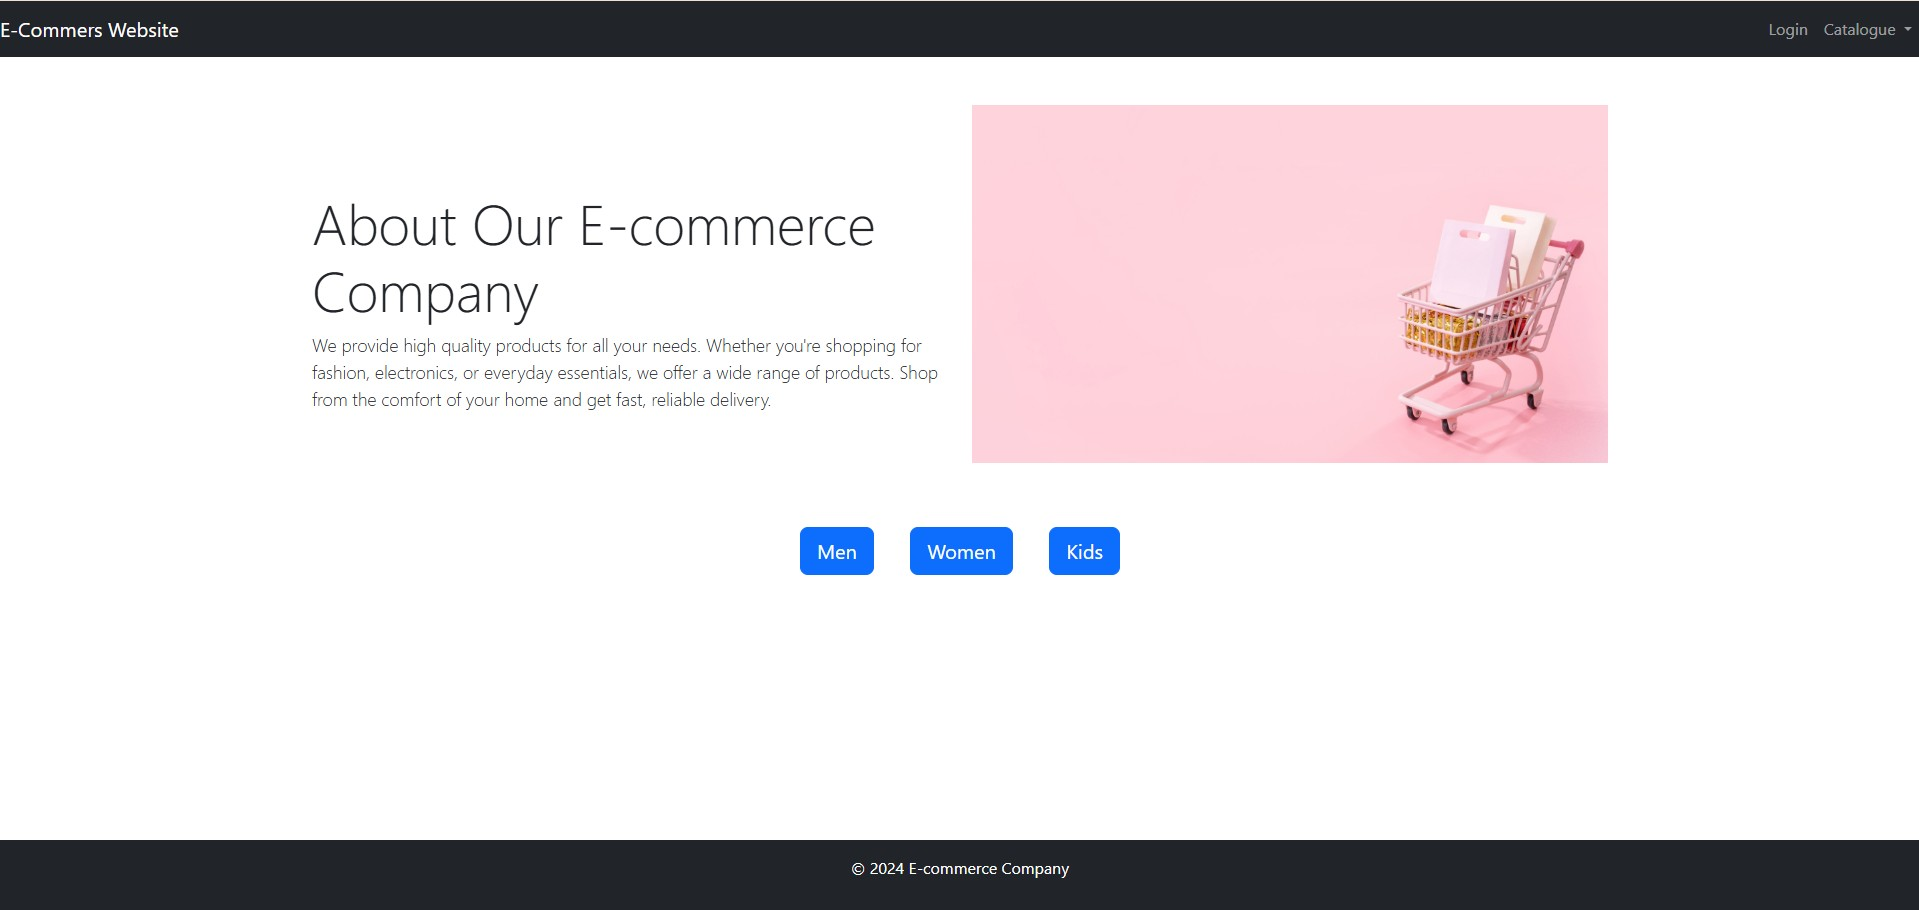
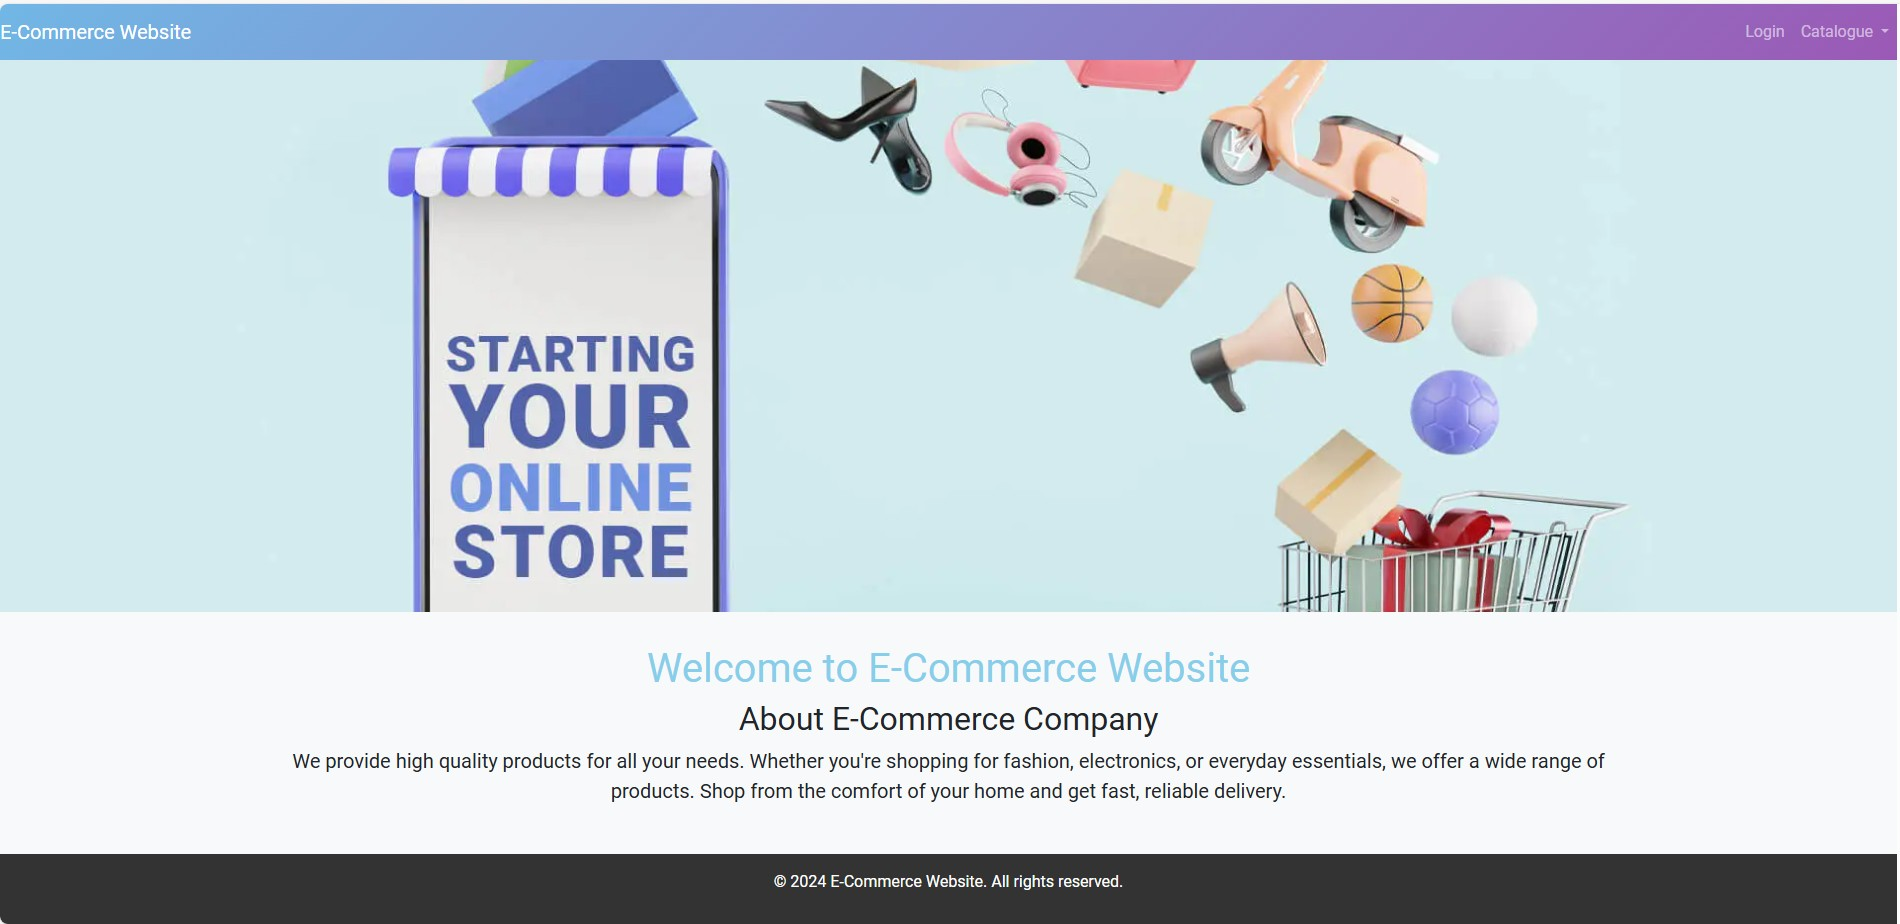
New Web page

diff --git a/index.html b/index.html
@@ -1,76 +1,65 @@
-<!doctype html>
+<!DOCTYPE html>
 <html lang="en">
-  <head>
+<head>
     <meta charset="UTF-8">
     <meta name="viewport" content="width=device-width, initial-scale=1.0">
-    <title>E-Commers Website</title>
+    <title>E-Commerce Website</title>
     
     <!-- Bootstrap CSS from CDN -->
     <link href="https://cdn.jsdelivr.net/npm/bootstrap@5.3.0-alpha1/dist/css/bootstrap.min.css" rel="stylesheet">
-    <link rel="stylesheet" href="public/styles.css"> <!-- Custom Styles -->
-  </head>
-  <body class="d-flex flex-column min-vh-100">
+    <link rel="stylesheet" href="https://cdnjs.cloudflare.com/ajax/libs/font-awesome/6.0.0-beta3/css/all.min.css">
+    <link rel="stylesheet" href="public/style.css"> <!-- Link to external CSS file -->
+</head>
+<body class="d-flex flex-column min-vh-100">
 
     <!-- Header Section with Navbar -->
     <header>
-      <nav class="navbar navbar-expand-lg navbar-dark bg-dark">
-        <a class="navbar-brand mx-auto" href="#">E-Commers Website</a>
-        <button class="navbar-toggler" type="button" data-bs-toggle="collapse" data-bs-target="#navbarNav" aria-controls="navbarNav" aria-expanded="false" aria-label="Toggle navigation">
-          <span class="navbar-toggler-icon"></span>
-        </button>
-        <div class="collapse navbar-collapse justify-content-end" id="navbarNav">
-          <ul class="navbar-nav">
-            <li class="nav-item">
-              <a class="nav-link" href="#">Login</a>
-            </li>
-            <li class="nav-item dropdown">
-              <a class="nav-link dropdown-toggle" href="#" id="navbarDropdown" role="button" data-bs-toggle="dropdown" aria-expanded="false">
-                Catalogue
-              </a>
-              <ul class="dropdown-menu" aria-labelledby="navbarDropdown">
-                <li><a class="dropdown-item" href="https://www.amazon.in/s?k=men+formal+shirt+cotton&crid=3K2ZHZRHJ6D2L&sprefix=men+formal+shirt+cotton%2Caps%2C191&ref=nb_sb_noss_1" target="_blank">Men</a></li>
-                <li><a class="dropdown-item" href="https://www.amazon.in/s?k=women&crid=38JW51XKUB8KO&sprefix=women%2Caps%2C205&ref=nb_sb_noss_2" target="_blank">Women</a></li>
-                <li><a class="dropdown-item" href="https://www.amazon.in/s?k=kids+clothes&crid=AYHR37NWCEU1&sprefix=kids+cloth%2Caps%2C213&ref=nb_sb_ss_ts-doa-p_3_10" target="_blank">Kids</a></li>
-              </ul>
-            </li>
-          </ul>
-        </div>
-      </nav>
+        <nav class="navbar navbar-expand-lg navbar-dark">
+            <a class="navbar-brand" href="#">E-Commerce Website</a>
+            <button class="navbar-toggler" type="button" data-bs-toggle="collapse" data-bs-target="#navbarNav" aria-controls="navbarNav" aria-expanded="false" aria-label="Toggle navigation">
+                <span class="navbar-toggler-icon"></span>
+            </button>
+            <div class="collapse navbar-collapse justify-content-end" id="navbarNav">
+                <ul class="navbar-nav">
+                    <li class="nav-item">
+                        <a class="nav-link" href="#">Login</a>
+                    </li>
+                    <li class="nav-item dropdown">
+                        <a class="nav-link dropdown-toggle" href="#" id="navbarDropdown" role="button" data-bs-toggle="dropdown" aria-expanded="false">
+                            Catalogue
+                        </a>
+                        <ul class="dropdown-menu" aria-labelledby="navbarDropdown">
+                            <li><a class="dropdown-item" href="https://www.amazon.in/s?k=men+formal+shirt+cotton&crid=3K2ZHZRHJ6D2L&sprefix=men+formal+shirt+cotton%2Caps%2C191&ref=nb_sb_noss_1" target="_blank">Men</a></li>
+                            <li><a class="dropdown-item" href="https://www.amazon.in/s?k=women&crid=38JW51XKUB8KO&sprefix=women%2Caps%2C205&ref=nb_sb_noss_2" target="_blank">Women</a></li>
+                            <li><a class="dropdown-item" href="https://www.amazon.in/s?k=kids+clothes&crid=AYHR37NWCEU1&sprefix=kids+cloth%2Caps%2C213&ref=nb_sb_ss_ts-doa-p_3_10" target="_blank">Kids</a></li>
+                        </ul>
+                    </li>
+                </ul>
+            </div>
+        </nav>
     </header>
 
+    <!-- Hero Section -->
+    <section class="hero">
+    </section>
+
     <!-- Main Content Section -->
-    <main class="container mt-5 flex-grow-1">
-      <div class="row">
-        <!-- About E-commerce Section (left side, slightly down) -->
-        <div class="col-md-6 d-flex align-items-center justify-content-center" style="margin-top: 50px;">
-          <div class="text-left">
-            <h2 class="display-4">About Our E-commerce Company</h2>
-            <p class="lead" style="font-size: 18px;">We provide high quality products for all your needs. Whether you're shopping for fashion, electronics, or everyday essentials, we offer a wide range of products. Shop from the comfort of your home and get fast, reliable delivery.</p>
-          </div>
+    <main class="container content">
+        <div class="row">
+            <div class="col-md-12 text-center">
+                <h1 class="highlight">Welcome to E-Commerce Website</h1>
+                <h2>About E-Commerce Company</h2>
+                <p class="lead">We provide high quality products for all your needs. Whether you're shopping for fashion, electronics, or everyday essentials, we offer a wide range of products. Shop from the comfort of your home and get fast, reliable delivery.</p>
+            </div>
         </div>
-
-        <!-- Image for E-commerce -->
-        <div class="col-md-6">
-          <img src="https://static-blog.omniconvert.com/blog/wp-content/uploads/2020/09/21135804/How-to-do-Growth-of-eCommerce-Website-scaled.jpg" alt="E-commerce Image" class="img-fluid">
-        </div>
-      </div>
-
-      <!-- Catalogue Buttons -->
-      <div class="row mt-5">
-        <div class="col text-center">
-          <button class="btn btn-primary btn-lg m-3" onclick="window.location.href='https://www.amazon.in/s?k=men+formal+shirt+cotton&crid=3K2ZHZRHJ6D2L&sprefix=men+formal+shirt+cotton%2Caps%2C191&ref=nb_sb_noss_1'">Men</button>
-          <button class="btn btn-primary btn-lg m-3" onclick="window.location.href='https://www.amazon.in/s?k=women&crid=38JW51XKUB8KO&sprefix=women%2Caps%2C205&ref=nb_sb_noss_2'">Women</button>
-          <button class="btn btn-primary btn-lg m-3" onclick="window.location.href='https://www.amazon.in/s?k=kids+clothes&crid=AYHR37NWCEU1&sprefix=kids+cloth%2Caps%2C213&ref=nb_sb_ss_ts-doa-p_3_10'">Kids</button>
-        </div>
-      </div>
     </main>
 
     <!-- Footer Section -->
-    <footer class="bg-dark text-white text-center py-3">
-      <p>&copy; 2024 E-commerce Company</p>
+    <footer class="footer mt-auto">
+        <p>&copy; 2024 E-Commerce Website. All rights reserved.</p>
     </footer>
 
-    <!-- Bootstrap JS and dependencies -->
+    <!-- Bootstrap JS from CDN -->
     <script src="https://cdn.jsdelivr.net/npm/bootstrap@5.3.0-alpha1/dist/js/bootstrap.bundle.min.js"></script>
-  </body>
+</body>
 </html>

diff --git a/public/style.css b/public/style.css
@@ -1,82 +1,58 @@
-/* Ensure the body and html take full height of the viewport */
-html, body {
-    height: 100%;
+/* General Styles */
+body {
+    font-family: 'Roboto', sans-serif;
+    background-color: #f8f9fa;
     margin: 0;
     padding: 0;
 }
 
-/* Body setup for Flexbox with background */
-body {
-    display: flex;
-    flex-direction: column;
-    background-image: url('https://static-blog.omniconvert.com/blog/wp-content/uploads/2020/09/21135804/How-to-do-Growth-of-eCommerce-Website-scaled.jpg'); /* Replace with actual background */
-    background-color: #f0f0f0; /* Fallback color in case the image doesn't load */
+/* Navbar Styles */
+.navbar {
+    background: linear-gradient(135deg, #71b7e6, #9b59b6);
+}
+
+/* Hero Section Styles */
+.hero {
+    background: url('https://zeve.au/sitecentre/uploads/2022/04/how-to-get-started-with-an-ecommerce-store.jpg') no-repeat center center;
     background-size: cover;
-    background-position: center center;
-    background-attachment: fixed;
+    height: 60vh;
+    display: flex;
+    justify-content: center;
+    align-items: center;
     color: white;
+    text-shadow: 2px 2px 4px rgba(0, 0, 0, 0.5);
 }
 
-/* Ensure the background covers the entire page */
-body, html {
-    background-size: cover; /* Ensure full coverage */
-    background-position: center; /* Ensure the image is centered */
+.hero h1 {
+    font-size: 3rem;
+    animation: fadeInDown 1s ease-in-out;
 }
 
-/* Main content takes the remaining space */
-main {
-    flex-grow: 1;
+@keyframes fadeInDown {
+    from {
+        opacity: 0;
+        transform: translateY(-20px);
+    }
+    to {
+        opacity: 1;
+        transform: translateY(0);
+    }
 }
 
-/* Footer at the bottom */
-footer {
-    margin-top: auto;
+/* Highlight Class */
+.highlight {
+    color: skyblue;
 }
 
-h1, h2, h3 {
-    font-family: 'Arial', sans-serif;
+/* Content Section Styles */
+.content {
+    padding: 2rem 0;
 }
 
-.card {
-    margin-top: 20px;
-    border: none;
-    border-radius: 10px;
-    box-shadow: 0 4px 8px rgba(0, 0, 0, 0.1);
+/* Footer Styles */
+.footer {
+    background: #333;
+    color: white;
+    padding: 1rem 0;
+    text-align: center;
 }
-
-.card-title {
-    font-size: 20px;
-}
-
-.card-text {
-    font-size: 16px;
-}
-
-footer {
-    position: relative;
-    width: 100%;
-    bottom: 0;
-}
-
-.text-end {
-    text-align: right;
-}
-
-.display-4 {
-    font-size: 2.5rem;
-}
-
-.lead {
-    font-size: 1.2rem;
-}
-
-/* Left Align About Us section and push it down */
-.col-md-6.d-flex {
-    height: 100%; /* Take full height */
-    padding-top: 50px;  /* Adds space from the top */
-}
-
-.text-left {
-    text-align: left; /* Align text to the left */
-}
-
